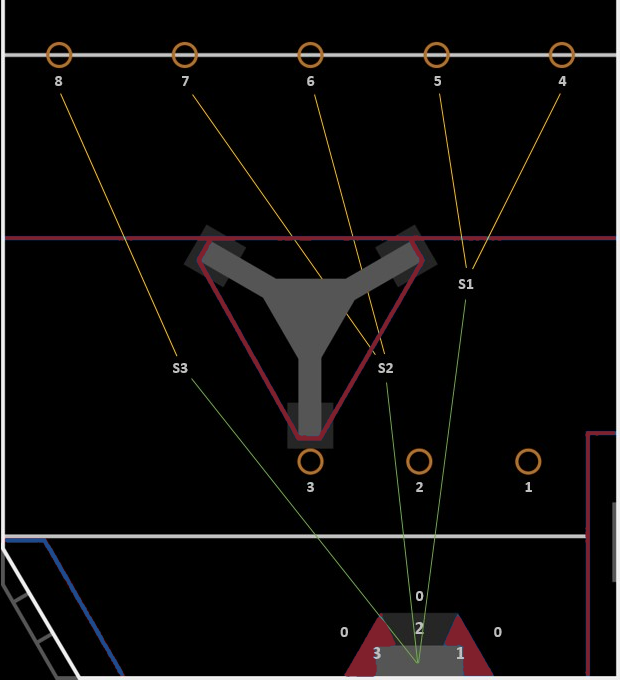
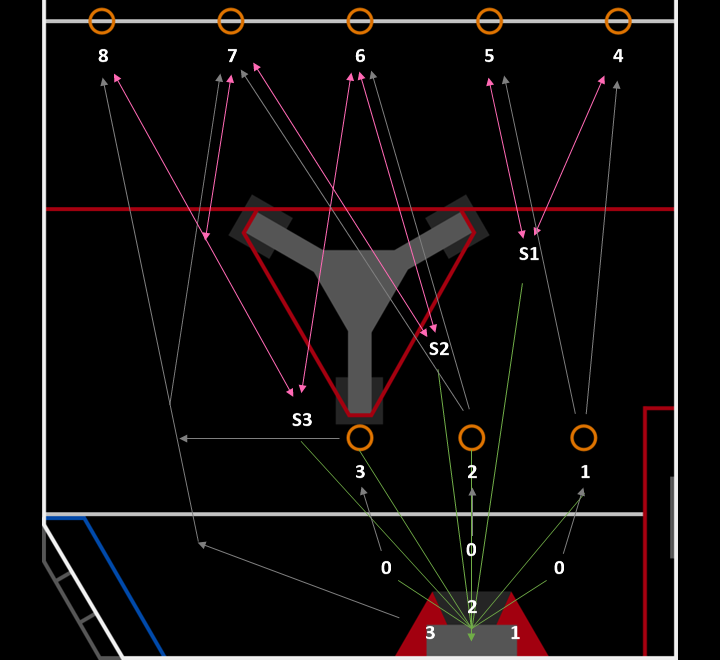
Update auto path charts for chooser display

diff --git a/src/ui/components/Dashboard/AutoSettings.svelte b/src/ui/components/Dashboard/AutoSettings.svelte
@@ -13,7 +13,7 @@
   let nt: NetworkTables;
   $: { 
     nt = $NetworkTablesStore; 
-    activeCommand = nt.topics.get(`${Topics.AutoCommand}/active`)?.value ?? "";
+    activeCommand = nt.topics.get(`${Topics.AutoCommand}/active`)?.value ?? "None";
   }
 </script>
 
@@ -30,7 +30,8 @@
     class:none={ activeCommand === "None" }>
     <h4>{ activeCommand }</h4>
   </div>
-  <div class="autos">
+  <div 
+    class="autos">
     <img src="./assets/autos-{ alliance?.toLowerCase() ?? "blue" }.png" />
   </div>
 </div>
@@ -65,9 +66,14 @@
     }
 
     .autos {
+      background: var(--app-color-black);
       width: 400px;
+      height: 440px;
       margin-top: 2em;
-      img { width: 100%; }
+      img { 
+        width: 100%; 
+        transform: translateY(30px);
+      }
     }
   }
 </style>

diff --git a/src/config.ts b/src/config.ts
@@ -44,10 +44,7 @@ export namespace Configuration {
         LauncherArmIsAlignedToTarget: "/SmartDashboard/Robot/Launcher/Arm/IsAlignedToTarget",
         LauncherRollerTopSpeed: "/SmartDashboard/Robot/Launcher/Roller/Top/Speed",
         LauncherRollerBottomSpeed: "/SmartDashboard/Robot/Launcher/Roller/Bottom/Speed",
-        IntakeRollerSpeed: "/SmartDashboard/Robot/Intake/Roller/Speed",
-        ClimberArmPosition: "/SmartDashboard/Robot/Climber/Arm/Position",
-        ClimberArmIsReadyForChainEngagement: "/SmartDashboard/Robot/Climber/Arm/IsReadyForChainEngagement",
-        ClimberArmIsReadyForStageClimb: "/SmartDashboard/Robot/Climber/Arm/IsReadyForStageClimb"
+        IntakeRollerSpeed: "/SmartDashboard/Robot/Intake/Roller/Speed"
       },
     },
     CameraStreams: {
